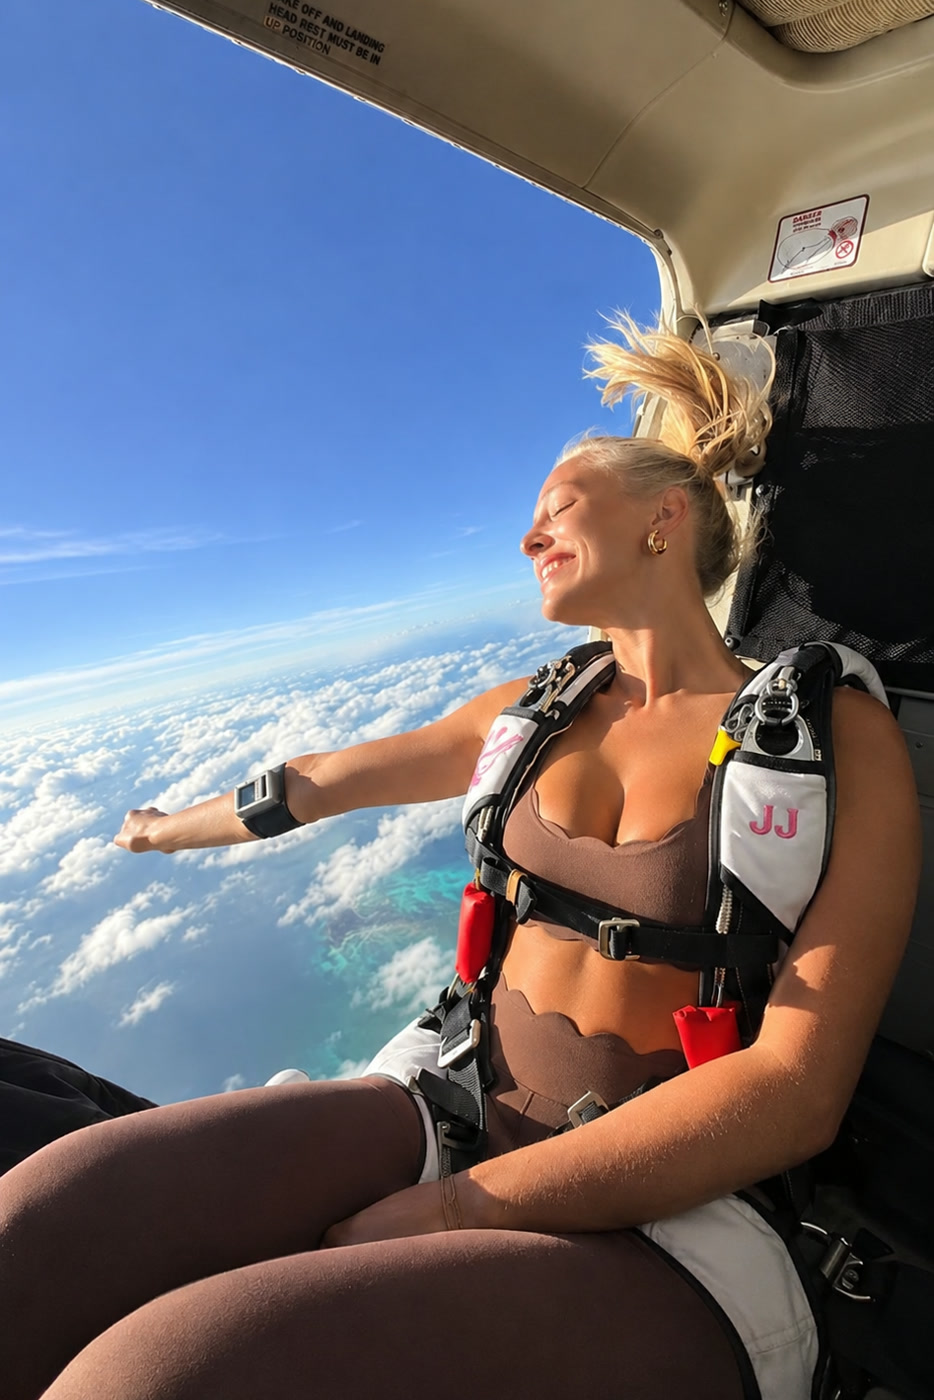
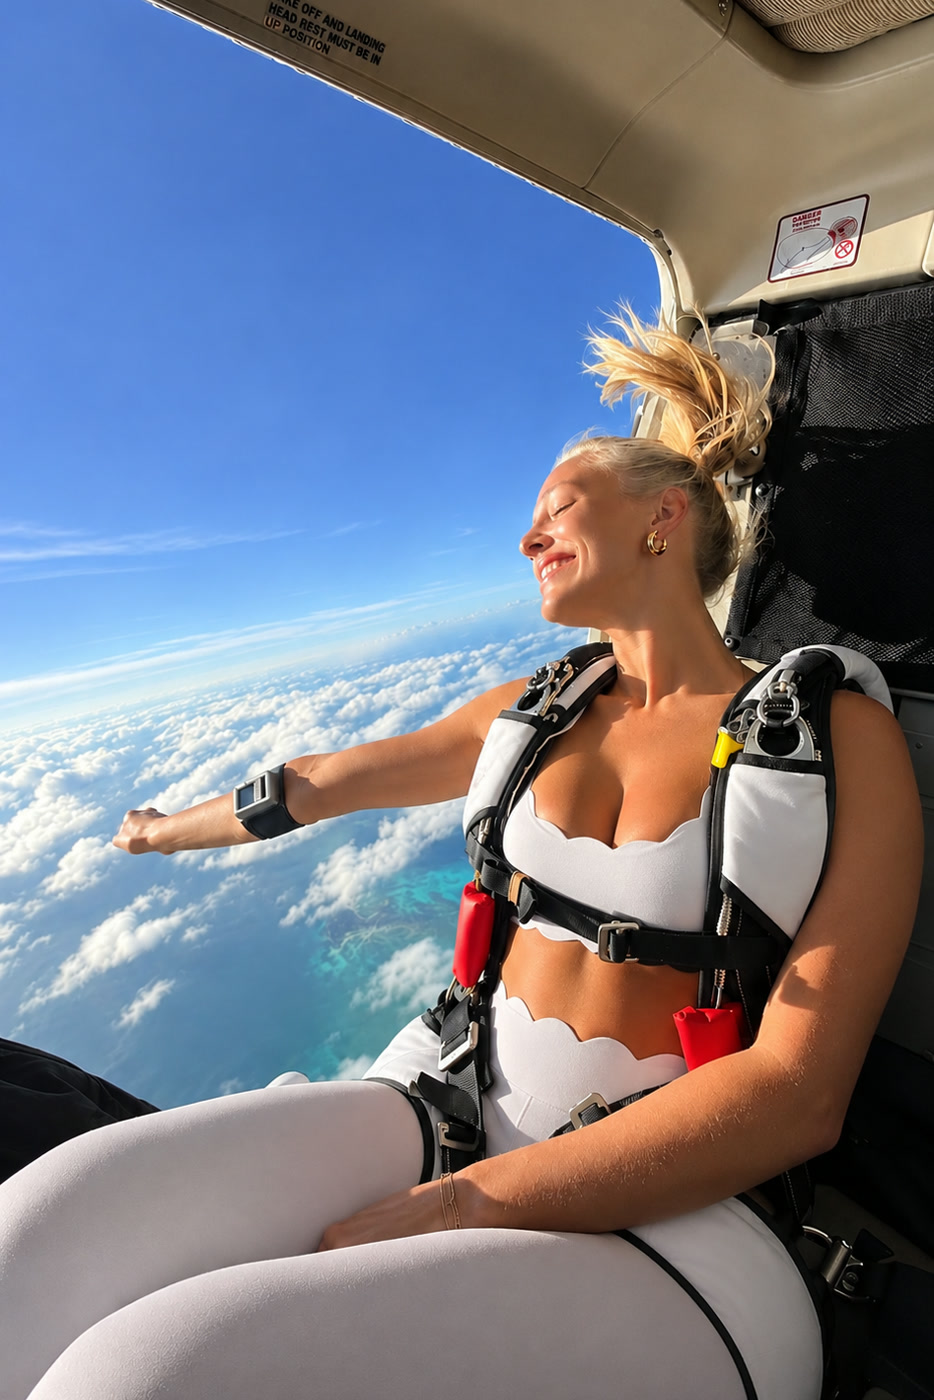
Concepts: white door, ocean hang, white balloon

diff --git a/index.html b/index.html
@@ -109,12 +109,12 @@ footer{text-align:center;padding:28px;background:var(--ink);color:var(--capri)}
     <h2 class="h">Moments worth dressing for</h2>
     <div class="grid3">
       <div class="card">
-        <div class="ph"><img src="ph/c1.jpg?v=5" alt=""></div>
+        <div class="ph"><img src="ph/c1.jpg?v=8" alt=""></div>
         <h3 class="h">01 &nbsp;The helicopter jump</h3>
         <p>A skydive from a helicopter in a matching set, filmed in freefall and shot by a pro photographer.</p>
       </div>
       <div class="card">
-        <div class="ph"><img src="ph/c2.jpg?v=3" alt=""></div>
+        <div class="ph"><img src="ph/c2.jpg?v=4" alt=""></div>
         <h3 class="h">02 &nbsp;The hang</h3>
         <p>Hanging beneath a helicopter above open water, photographed from the ground.</p>
       </div>
